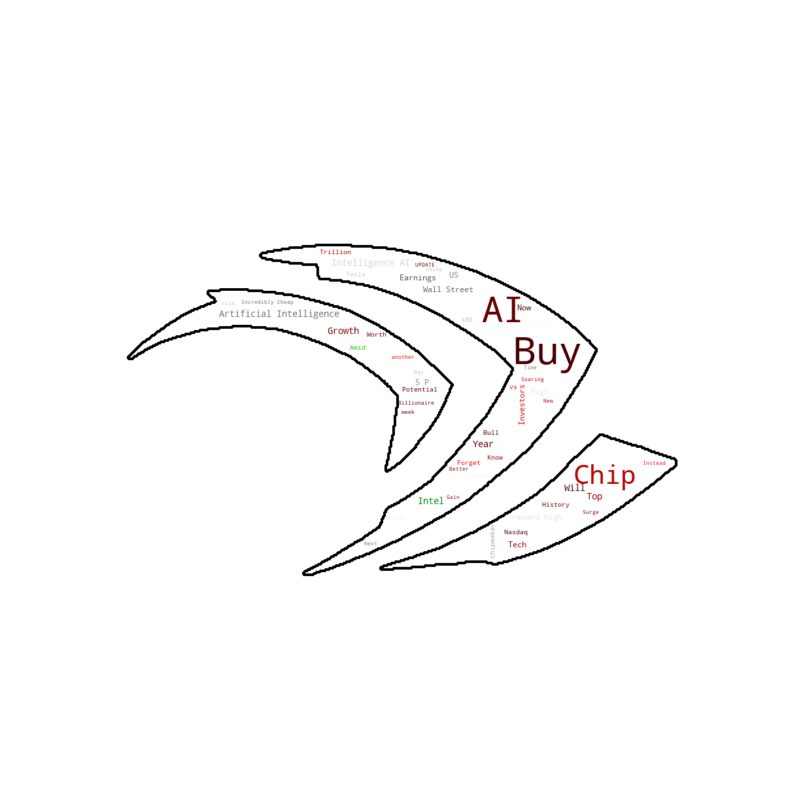
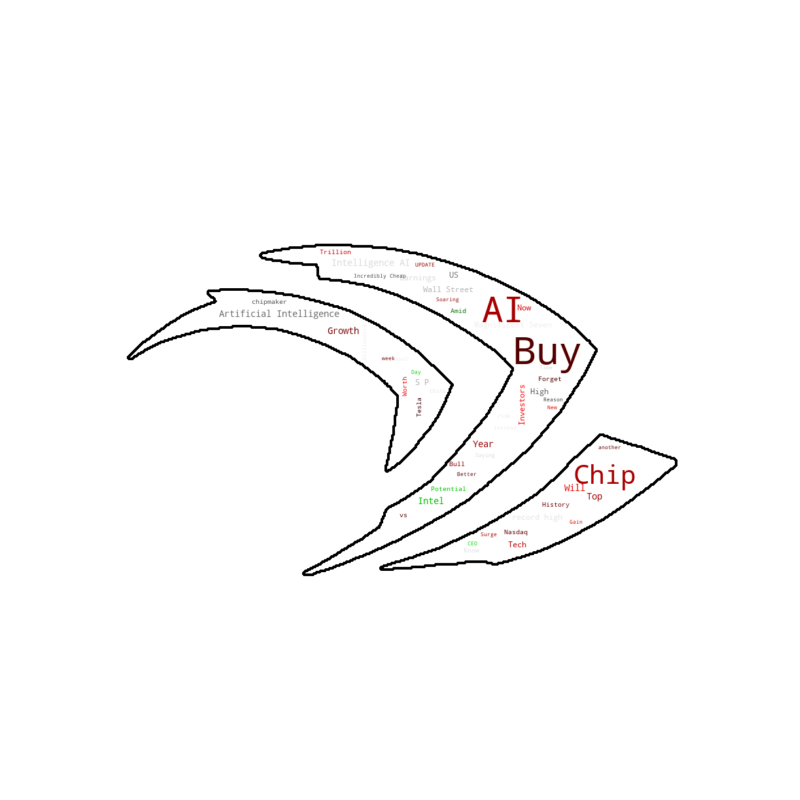
revisit wordcloud

diff --git a/sp500/visualization/create_word_cloud.py b/sp500/visualization/create_word_cloud.py
@@ -1,21 +1,10 @@
-import pandas as pd
 from wordcloud import WordCloud, STOPWORDS
 import matplotlib.pyplot as plt
-from pathlib import Path
 from datatypes import GroupedColorFunc
 import os
 import re
 import numpy as np
 from PIL import Image
-
-STOCK_TO_COMPANY = {
-    "AAPL": "Apple",
-    "NVDA": "Nvidia",
-    "BA": "Boeing",
-    "GOOG": "Google",
-    "AMZN": "Amazon",
-    "STOCK": "Stock",
-}
 
 ADDITIONAL_STOPWORDS = [
     "stock",
@@ -28,50 +17,38 @@ ADDITIONAL_STOPWORDS = [
     "Microsoft",
 ]
 
-picture_path = os.path.dirname(os.path.abspath(__file__))
 
-company_logo_paths = {
-    "AAPL": os.path.join(picture_path, "visualization", "apple.png"),
-    "AMZN": os.path.join(picture_path, "visualization", "amazon.png"),
-    "BA": os.path.join(picture_path, "visualization", "boeing.png"),
-    "GOOG": os.path.join(picture_path, "visualization", "google.png"),
-    "NVDA": os.path.join(picture_path, "visualization", "nvidia.png"),
-}
-
-
-def read_headlines():
+def read_headlines(df):
     """
-    This function reads headlines from a cleaned CSV file and stores them in a dictionary with the stock name as the key.
-    Each key maps to another dictionary that categorizes headlines into 'positive', 'negative', and 'neutral' based on their polarity.
+    This function processes a DataFrame of headlines and stores them in a dictionary with the stock name as the key.
+    Each key maps to another dictionary that categorizes headlines into 'positive', 'negative', and 'uncertain'
+    based on scores and labels.
+
+    Parameters:
+        df (pandas.DataFrame): A DataFrame containing the headlines and associated sentiment scores and labels.
 
     Returns:
-        dict: A dictionary with company names as keys. Each key maps to another dictionary with keys 'positive', 'negative', and 'neutral',
+        dict: A dictionary with company names as keys. Each key maps to another dictionary with keys 'positive', 'negative', and 'uncertain',
         each of which is a list of headlines corresponding to the sentiment category.
     """
 
-    # Use pathlib to construct the path to the CSV file relative to the current file's directory
-    filename = Path(__file__).parent.parent / "sa/data/Finished_test_sa.csv"
-
-    # Read the CSV file into a pandas DataFrame
-    df = pd.read_csv(filename)
-
-    # Classifier function to categorize sentiment based on pos, neg scores and Label
+    # Classifier function to categorize sentiment based on pos, neg scores, and Label
     def classifier_sentiment(row):
-        if row["pos"] > row["neg"] and row["Label (P, N, U-neutral)"] == "P":
+        if row["pos"] > row["neg"] and row["Segmentation Compound"] == "Positive High":
             return "positive"
-        elif row["pos"] < row["neg"] and row["Label (P, N, U-neutral)"] == "N":
+        elif row["pos"] < row["neg"] and row["Segmentation Compound"] == "Negative High":
             return "negative"
         else:
             return "uncertain"
 
     # Apply the classifier function to each row to create a new 'sentiment' column
     df["sentiment"] = df.apply(classifier_sentiment, axis=1)
+
     # Initialize a dictionary to store the categorized headlines for each company
     company_headlines_sentiment = {}
 
     # Group the DataFrame by company and iterate through each group
     for company, group in df.groupby("Company"):
-        # Filter the group for positive, negative, and neutral headlines and convert to lists
         positive_headlines = group[group["sentiment"] == "positive"][
             "Headline"
         ].tolist()
@@ -88,7 +65,7 @@ def read_headlines():
             "negative": negative_headlines,
             "uncertain": uncertain_headlines,
         }
-    # Return the dictionary containing the categorized headlines for each company
+
     return company_headlines_sentiment
 
 
@@ -97,7 +74,7 @@ def add_stopwords_with_regex(texts, stopwords):
     Adds a list of texts to the stopwords set, using regex to catch variations.
 
     Parameters:
-    - text: A list of text that should include in stopwords
+    - texts: A list of text that should include in stopwords
     - stopwords: A set of words that should be added to the stopword list.
 
     Returns:
@@ -190,9 +167,36 @@ def map_sentiments_to_colors(sentiment_to_keywords, sentiment_color_mapping):
     return color_to_keywords
 
 
-def create_wordcloud():
+def create_default_mask():
+    """
+    Creates a default mask for WordCloud in case a company logo is not available.
+
+    Returns:
+        numpy.ndarray: A default mask array.
+    """
+    # Create a simple circle as a default mask
+    # You can modify this to be any shape you prefer
+    mask_size = (300, 300)
+    mask = np.zeros(mask_size, dtype=np.uint8)
+    center_x, center_y = np.array(mask_size) // 2
+    radius = min(mask_size) // 2 - 10  # radius of the circle
+
+    for x in range(mask_size[0]):
+        for y in range(mask_size[1]):
+            if (x - center_x) ** 2 + (y - center_y) ** 2 <= radius**2:
+                mask[x, y] = 255
+
+    return mask
+
+
+def create_wordcloud(
+    df,
+    company_logo_paths=None,
+    stock_to_company=None,
+    visualization_dir="visualization",
+):
     # Read headlines and perform sentiment analysis, returning a dictionary of {company: {sentiment: [headlines]}}
-    headlines_dict = read_headlines()
+    headlines_dict = read_headlines(df)
 
     # Define the mapping from sentiments to color codes
     sentiment_color_mapping = {
@@ -201,21 +205,31 @@ def create_wordcloud():
         "neutral": "#808080",  # Gray for neutral sentiment
     }
 
-    # Define the path to the visualization directory
-    visualization_dir = os.path.join(os.path.dirname(__file__), "visualization")
-
     # Ensure the visualization directory exists
     if not os.path.exists(visualization_dir):
         os.makedirs(visualization_dir)
 
-    # Assume add_companies_to_stopwords_with_regex is implemented elsewhere and companies are extracted
-    companies = [name for pair in STOCK_TO_COMPANY.items() for name in pair]
-    custom_stopwords = add_stopwords_with_regex(companies, set(STOPWORDS))
-    updated_stopwords = add_stopwords_with_regex(
-        ADDITIONAL_STOPWORDS, set(custom_stopwords)
-    )
+    # Initialize stopwords
+    custom_stopwords = set(STOPWORDS)
+
+    # Add company names and stock symbols to stopwords if provided
+    if stock_to_company:
+        for stock, company in stock_to_company.items():
+            custom_stopwords.add(company)
+            custom_stopwords.add(stock)
+
+    # Add additional custom stopwords
+    updated_stopwords = add_stopwords_with_regex(ADDITIONAL_STOPWORDS, custom_stopwords)
 
     for company, sentiments in headlines_dict.items():
+        if company_logo_paths and company in company_logo_paths:
+            mask_path = company_logo_paths[company]
+            mask = np.array(Image.open(mask_path))
+        else:
+            mask = create_default_mask()
+
+        inverted_mask = np.invert(mask)
+
         # Create a sentiment to keywords mapping for the current company
         sentiment_to_keywords = create_sentiment_to_keywords_dict(
             {company: sentiments}, updated_stopwords
@@ -241,15 +255,12 @@ def create_wordcloud():
         )
 
         # Retrieve the path to the company's logo, create a mask from it and invert the mask colors for the word cloud
-        mask_path = company_logo_paths[company]
-        mask = np.array(Image.open(mask_path))
-        inverted_logo_mask = np.invert(mask)
 
         # Create a WordCloud instance
         wordcloud = WordCloud(
             background_color="white",
             stopwords=updated_stopwords,
-            mask=inverted_logo_mask,
+            mask=inverted_mask,
             max_words=200,
             max_font_size=120,
             scale=2,
@@ -270,7 +281,3 @@ def create_wordcloud():
         filepath = os.path.join(visualization_dir, f"{company}_wordcloud.png")
         plt.savefig(filepath)
         plt.close()
-
-
-if __name__ == "__main__":
-    create_wordcloud()

diff --git a/sp500/visualization/wordcloud_in_logo.py b/sp500/visualization/wordcloud_in_logo.py
@@ -1,0 +1,39 @@
+import os
+from pathlib import Path
+import pandas as pd
+from create_word_cloud import create_wordcloud
+
+STOCK_TO_COMPANY = {
+    "AAPL": "Apple",
+    "NVDA": "Nvidia",
+    "BA": "Boeing",
+    "GOOG": "Google",
+    "AMZN": "Amazon",
+    "STOCK": "Stock",
+}
+
+PICTURE_PATE = os.path.dirname(os.path.abspath(__file__))
+
+COMPANY_LOGO_PATHS = {
+    "AAPL": os.path.join(PICTURE_PATE, "visualization", "apple.png"),
+    "AMZN": os.path.join(PICTURE_PATE, "visualization", "amazon.png"),
+    "BA": os.path.join(PICTURE_PATE, "visualization", "boeing.png"),
+    "GOOG": os.path.join(PICTURE_PATE, "visualization", "google.png"),
+    "NVDA": os.path.join(PICTURE_PATE, "visualization", "nvidia.png"),
+}
+
+
+def run_word_cloud():
+    filename = Path(__file__).parent.parent / "sa/data/Finished_test_sa.csv"
+    visualization_dir = Path(__file__).resolve().parent / "visualization"
+    df = pd.read_csv(filename)
+    create_wordcloud(
+        df=df,
+        company_logo_paths=COMPANY_LOGO_PATHS,
+        stock_to_company=STOCK_TO_COMPANY,
+        visualization_dir=visualization_dir,
+    )
+
+
+if __name__ == "__main__":
+    run_word_cloud()
